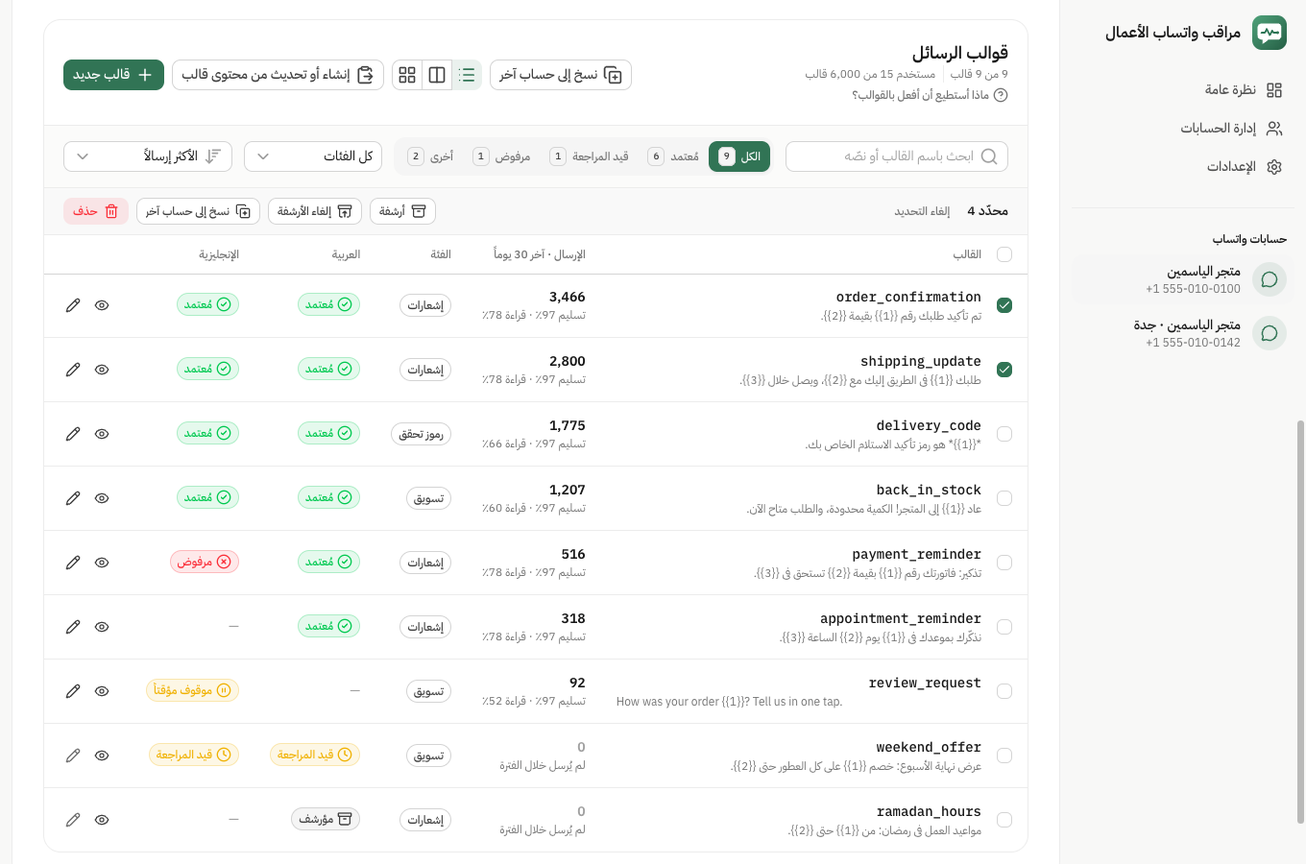
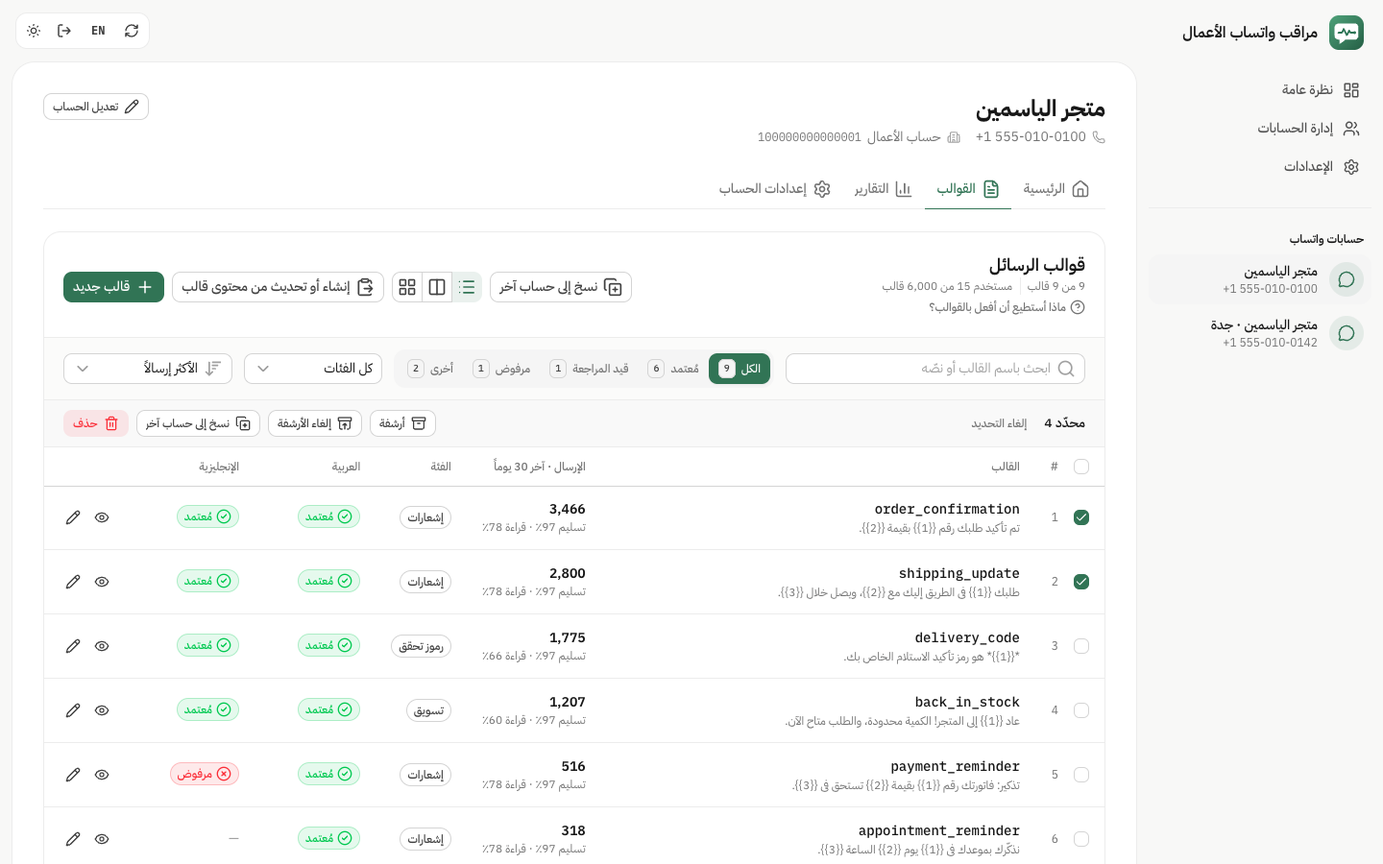
feat(docs): simplify the site and README around the new tabs
Six grouped features instead of fifteen, five screenshots per language
(with Arabic images on the Arabic site), new hero text, guides updated
for the templates tab and paging, and unused screenshots removed.

diff --git a/site/app/utils/content.ts b/site/app/utils/content.ts
@@ -8,31 +8,22 @@ const en = {
   language: 'العربية',
   hero: {
     badge: 'Free and open source',
-    title: 'Your WhatsApp templates on one screen',
-    text: 'See how every message template performs and what it costs, across all your WhatsApp Business accounts. It runs on your computer or your server, and your tokens never leave it.',
+    title: 'Your WhatsApp Business accounts on one screen',
+    text: 'Templates, costs, numbers and settings for all your WhatsApp Business accounts, explained in plain words. It runs on your computer or your server, and your tokens never leave it.',
     install: 'Install',
     docs: 'Read the docs',
     notes: ['One command with Docker', 'Arabic and English', 'MIT license'],
     image: 'The overview of two accounts of a fictional store: this month\'s cost, messages sent, templates that need attention and a daily cost chart.',
   },
   features: {
-    title: 'Everything about your templates, in one place',
-    text: 'Built on Meta\'s WhatsApp Business Management API. No spreadsheets, and no switching between accounts in WhatsApp Manager.',
+    title: 'Everything about your accounts, in one place',
+    text: 'Built on Meta\'s WhatsApp Business APIs. No spreadsheets, and no switching between accounts in WhatsApp Manager.',
     items: [
-      { icon: 'i-lucide-layout-dashboard', title: 'All accounts together', text: 'This month\'s cost, messages sent and the templates that need attention, for every account.' },
-      { icon: 'i-lucide-chart-column', title: 'Numbers for each template', text: 'Sends, deliveries, reads and cost for the last 30 days.' },
-      { icon: 'i-lucide-wallet', title: 'What you spend', text: 'This month\'s cost per day and per message type.' },
-      { icon: 'i-lucide-file-text', title: 'Create and edit', text: 'Fill in the fields with a live WhatsApp preview, or paste a whole template as text.' },
-      { icon: 'i-lucide-bell-ring', title: 'Status alerts', text: 'A notification when a template is approved, rejected or paused, with Meta\'s reason in plain words.' },
-      { icon: 'i-lucide-smartphone', title: 'Number health', text: 'Whether each number can send now and why not, with its quality rating and daily limit.' },
-      { icon: 'i-lucide-archive', title: 'Tidy up templates', text: 'Delete, archive, unpause and copy templates to another account, several at once, and see how many of your 250 or 6,000 are used.' },
-      { icon: 'i-lucide-chart-column', title: 'Reports and costs', text: 'Cost by country, number and paid or free, every message sent and received, the 1,000 free service messages left, template block rates and calls.' },
-      { icon: 'i-lucide-settings', title: 'Account settings', text: 'Verification, payment method, people with access, the activity log, and each number\'s profile, name, badge, username, QR codes, chat start and blocked list.' },
-      { icon: 'i-lucide-users', title: 'Several accounts', text: 'Add, edit and remove accounts, and move them all to another computer in one encrypted file.' },
-      { icon: 'i-lucide-search', title: 'Find any template', text: 'Search by name or text, filter by status and category, and sort by the most sent.' },
-      { icon: 'i-lucide-layout-grid', title: 'Three views', text: 'A table, a list with the preview beside it, or cards with a preview of each message.' },
-      { icon: 'i-lucide-files', title: 'Many templates at once', text: 'Paste several templates together: new ones are created, changed ones updated, the rest skipped.' },
-      { icon: 'i-lucide-key-round', title: 'Accounts from a token', text: 'Paste a Meta access token and it lists the WhatsApp Business accounts the token can reach.' },
+      { icon: 'i-lucide-layout-dashboard', title: 'Every account at a glance', text: 'This month\'s cost and messages, what needs your attention now, and the most-sent templates.' },
+      { icon: 'i-lucide-file-text', title: 'Templates', text: 'Status and 30-day numbers for each one. Create and edit with a live preview, paste them as text, and delete, archive, unpause or copy several at once.' },
+      { icon: 'i-lucide-chart-column', title: 'Reports and costs', text: 'What Meta charged by category, country and number, every message sent and received, and the 1,000 free replies left this month.' },
+      { icon: 'i-lucide-settings', title: 'Account and numbers', text: 'Whether each number can send and why not, verification, payment, people with access, and each number\'s profile, name, badge, QR codes and blocked list.' },
+      { icon: 'i-lucide-users', title: 'Several accounts', text: 'Found from one token, and moved to another computer in one encrypted file.' },
       { icon: 'i-lucide-languages', title: 'Arabic and English', text: 'Right to left or left to right, light or dark, and templates in any language.' },
     ],
   },
@@ -40,16 +31,11 @@ const en = {
     title: 'A look inside',
     text: 'Every screenshot shows a fictional store.',
     tabs: [
-      { label: 'An account', file: 'dashboard.png', alt: 'An account: cost, messages, number, daily cost, cost by type, number health and the templates table.' },
-      { label: 'A template', file: 'template-preview.png', alt: 'A template\'s preview, details and 30-day numbers.' },
-      { label: 'Editing', file: 'template-edit.png', alt: 'Editing a template with fields, sample values and a live preview.' },
-      { label: 'Paste as text', file: 'create-from-text.png', alt: 'Two pasted templates: one update and one new template.' },
-      { label: 'List and preview', file: 'views-split.png', alt: 'The templates as a list, with the selected one\'s preview and numbers beside it.' },
-      { label: 'Cards', file: 'views-cards.png', alt: 'The templates as cards, with a preview of each message.' },
-      { label: 'Accounts', file: 'accounts.png', alt: 'The accounts page with import, export and add buttons.' },
-      { label: 'Settings', file: 'settings.png', alt: 'The settings: app name and address, updates, password and backup.' },
+      { label: 'An account', file: 'dashboard.png', alt: 'An account\'s home: cost, messages, balance, daily cost, cost by type, what needs attention and the most-sent templates.' },
+      { label: 'Templates', file: 'templates-actions.png', alt: 'The templates tab with two selected and the archive, unarchive, copy and delete buttons.' },
+      { label: 'Reports', file: 'reports.png', alt: 'Reports: what was charged, free messages, free replies left, cost over time, and cost by category and country.' },
+      { label: 'Account settings', file: 'account-settings.png', alt: 'Account settings: sending health with reasons, account details, numbers, people with access and the activity log.' },
       { label: 'Dark mode', file: 'dashboard-dark.png', alt: 'The overview in dark mode.' },
-      { label: 'Arabic', file: 'arabic.png', alt: 'The overview in Arabic, right to left.' },
     ],
   },
   install: {
@@ -65,7 +51,7 @@ const en = {
     title: 'Yours, and only yours',
     items: [
       { icon: 'i-lucide-server', title: 'Runs where you choose', text: 'On your computer or your own server, behind your own sign-in.' },
-      { icon: 'i-lucide-lock', title: 'Tokens stay on the server', text: 'No page and no response ever contains an access token.' },
+      { icon: 'i-lucide-lock', title: 'Tokens stay on the server', text: 'No page and no response ever contains an access token, and exporting them asks for your password.' },
       { icon: 'i-lucide-eye-off', title: 'No tracking', text: 'No analytics. Besides Meta, it only asks GitHub once a day whether a new version is out.' },
     ],
   },
@@ -77,7 +63,7 @@ const en = {
       { question: 'Is it free?', answer: 'Yes. It is open source under the MIT license, with no paid plan. You keep paying Meta for the messages you send, as usual.' },
       { question: 'Is my access token safe?', answer: 'The app runs on your computer or your own server. The token stays in its database and is never sent to the browser or to anyone but Meta. There are no analytics.' },
       { question: 'What do I need to connect an account?', answer: 'A WhatsApp Business account on the Cloud API, and a Meta system user token with the whatsapp_business_management permission.' },
-      { question: 'How is it different from WhatsApp Manager?', answer: 'Meta\'s WhatsApp Manager shows one account at a time. This puts all your accounts on one screen, with 30-day numbers for every template, the month\'s cost per day and per message type, and an alert when a template\'s status changes.' },
+      { question: 'How is it different from WhatsApp Manager?', answer: 'Meta\'s WhatsApp Manager shows one account at a time. This puts all your accounts on one screen, with 30-day numbers for every template, reports on what you pay and why, what needs your attention now, and an alert when a template\'s status changes.' },
       { question: 'Does it send messages to my customers?', answer: 'No. It reads your templates, numbers and costs, and lets you create and edit templates. Sending messages stays in your own systems.' },
       { question: 'How do I install and update it?', answer: 'Run one command with Docker. New versions install themselves every 6 hours and keep your settings and data; to update right away, press "Update now" in the app.' },
     ],
@@ -98,31 +84,22 @@ const ar: typeof en = {
   language: 'English',
   hero: {
     badge: 'مجاني ومفتوح المصدر',
-    title: 'قوالب واتساب الخاصة بك في شاشة واحدة',
-    text: 'اعرف أداء كل قالب رسائل وتكلفته في جميع حسابات واتساب الأعمال. يعمل على جهازك أو على خادمك، ولا يغادره رمز الوصول أبداً.',
+    title: 'حسابات واتساب الأعمال في شاشة واحدة',
+    text: 'القوالب والتكاليف والأرقام والإعدادات لكل حسابات واتساب الأعمال، مشروحة بكلمات بسيطة. يعمل على جهازك أو على خادمك، ولا يغادره رمز الوصول أبداً.',
     install: 'التثبيت',
     docs: 'اقرأ دليل الاستخدام',
     notes: ['أمر واحد مع Docker', 'عربي وإنجليزي', 'رخصة MIT'],
     image: 'نظرة عامة على حسابين لمتجر خيالي: تكلفة هذا الشهر والرسائل المرسلة والقوالب التي تحتاج إلى متابعة ورسم للتكلفة اليومية.',
   },
   features: {
-    title: 'كل ما يخص قوالبك في مكان واحد',
-    text: 'مبني على WhatsApp Business Management API من Meta. لا جداول، ولا تنقّل بين الحسابات في WhatsApp Manager.',
+    title: 'كل ما يخص حساباتك في مكان واحد',
+    text: 'مبني على واجهات واتساب للأعمال من Meta. لا جداول، ولا تنقّل بين الحسابات في WhatsApp Manager.',
     items: [
-      { icon: 'i-lucide-layout-dashboard', title: 'كل الحسابات معاً', text: 'تكلفة هذا الشهر والرسائل المرسلة والقوالب التي تحتاج إلى متابعة، لكل حساب.' },
-      { icon: 'i-lucide-chart-column', title: 'أرقام كل قالب', text: 'الإرسال والتسليم والقراءة والتكلفة خلال آخر 30 يوماً.' },
-      { icon: 'i-lucide-wallet', title: 'ما تنفقه', text: 'تكلفة هذا الشهر لكل يوم ولكل نوع رسالة.' },
-      { icon: 'i-lucide-file-text', title: 'إنشاء وتعديل', text: 'املأ الحقول مع معاينة حيّة لرسالة واتساب، أو الصق القالب كاملاً كنص.' },
-      { icon: 'i-lucide-bell-ring', title: 'تنبيهات الحالة', text: 'إشعار عند اعتماد قالب أو رفضه أو إيقافه مؤقتاً، مع سبب Meta بكلمات واضحة.' },
-      { icon: 'i-lucide-smartphone', title: 'صحة الأرقام', text: 'هل يستطيع كل رقم الإرسال الآن ولماذا لا، مع تقييم الجودة والحد اليومي.' },
-      { icon: 'i-lucide-archive', title: 'ترتيب القوالب', text: 'احذف القوالب وأرشفها وألغِ إيقافها وانسخها إلى حساب آخر، عدة قوالب معاً، واعرف كم استخدمت من 250 أو 6,000.' },
-      { icon: 'i-lucide-chart-column', title: 'التقارير والتكاليف', text: 'التكلفة حسب الدولة والرقم والمدفوع والمجاني، وكل الرسائل المرسلة والواردة، والمتبقي من 1,000 رسالة خدمة مجانية، ونسبة حظر القوالب والمكالمات.' },
-      { icon: 'i-lucide-settings', title: 'إعدادات الحساب', text: 'التوثيق ووسيلة الدفع ومن يصل إلى الحساب وسجل النشاط، ولكل رقم ملفه واسمه وشارته واسم المستخدم ورموز QR وبداية المحادثة والمحظورون.' },
-      { icon: 'i-lucide-users', title: 'عدة حسابات', text: 'أضف الحسابات وعدّلها واحذفها، وانقلها كلها إلى جهاز آخر في ملف واحد مشفّر.' },
-      { icon: 'i-lucide-search', title: 'ابحث عن أي قالب', text: 'ابحث بالاسم أو النص، وصفِّ حسب الحالة والفئة، ورتّب حسب الأكثر إرسالاً.' },
-      { icon: 'i-lucide-layout-grid', title: 'ثلاث طرق للعرض', text: 'جدول، أو قائمة بجانبها المعاينة، أو بطاقات فيها معاينة لكل رسالة.' },
-      { icon: 'i-lucide-files', title: 'عدة قوالب دفعة واحدة', text: 'الصق عدة قوالب معاً: يُنشأ الجديد ويُحدَّث المعدَّل ويُترك الباقي.' },
-      { icon: 'i-lucide-key-round', title: 'الحسابات من رمز الوصول', text: 'الصق رمز الوصول من Meta فتظهر حسابات واتساب الأعمال التي يصل إليها.' },
+      { icon: 'i-lucide-layout-dashboard', title: 'كل حساب بنظرة واحدة', text: 'تكلفة هذا الشهر والرسائل، وما يحتاج انتباهك الآن، والقوالب الأكثر إرسالاً.' },
+      { icon: 'i-lucide-file-text', title: 'القوالب', text: 'الحالة وأرقام آخر 30 يوماً لكل قالب. أنشئ وعدّل مع معاينة حيّة، أو الصقها كنص، واحذف وأرشف وألغِ الإيقاف وانسخ عدة قوالب معاً.' },
+      { icon: 'i-lucide-chart-column', title: 'التقارير والتكاليف', text: 'ما حسبته Meta حسب الفئة والدولة والرقم، وكل الرسائل المرسلة والواردة، والمتبقي من 1,000 رد مجاني هذا الشهر.' },
+      { icon: 'i-lucide-settings', title: 'الحساب والأرقام', text: 'هل يستطيع كل رقم الإرسال ولماذا لا، والتوثيق والدفع ومن يصل إلى الحساب، ولكل رقم ملفه واسمه وشارته ورموز QR والمحظورون.' },
+      { icon: 'i-lucide-users', title: 'عدة حسابات', text: 'تظهر من رمز وصول واحد، وتنتقل إلى جهاز آخر في ملف واحد مشفّر.' },
       { icon: 'i-lucide-languages', title: 'عربي وإنجليزي', text: 'من اليمين إلى اليسار أو العكس، فاتح أو داكن، وقوالب بأي لغة.' },
     ],
   },
@@ -130,16 +107,11 @@ const ar: typeof en = {
     title: 'نظرة من الداخل',
     text: 'كل الصور لمتجر خيالي.',
     tabs: [
-      { label: 'الحساب', file: 'dashboard.png', alt: 'حساب: التكلفة والرسائل والرقم والتكلفة اليومية والتكلفة حسب النوع وصحة الأرقام وجدول القوالب.' },
-      { label: 'القالب', file: 'template-preview.png', alt: 'معاينة قالب وتفاصيله وأرقامه خلال 30 يوماً.' },
-      { label: 'التعديل', file: 'template-edit.png', alt: 'تعديل قالب بالحقول والقيم التجريبية مع معاينة حيّة.' },
-      { label: 'اللصق كنص', file: 'create-from-text.png', alt: 'قالبان ملصوقان: تحديث لقالب وقالب جديد.' },
-      { label: 'القائمة والمعاينة', file: 'views-split.png', alt: 'القوالب في قائمة، وبجانبها معاينة القالب المحدد وأرقامه.' },
-      { label: 'البطاقات', file: 'views-cards.png', alt: 'القوالب في بطاقات، في كل منها معاينة للرسالة.' },
-      { label: 'الحسابات', file: 'accounts.png', alt: 'صفحة الحسابات مع أزرار الاستيراد والتصدير والإضافة.' },
-      { label: 'الإعدادات', file: 'settings.png', alt: 'الإعدادات: اسم التطبيق وعنوانه والتحديثات وكلمة المرور والنسخ الاحتياطي.' },
+      { label: 'الحساب', file: 'dashboard-ar.png', alt: 'رئيسية الحساب: التكلفة والرسائل والرصيد والتكلفة اليومية وحسب النوع، وما يحتاج انتباهك، والقوالب الأكثر إرسالاً.' },
+      { label: 'القوالب', file: 'templates-actions-ar.png', alt: 'تبويب القوالب مع قالبين محدّدين وأزرار الأرشفة وإلغائها والنسخ والحذف.' },
+      { label: 'التقارير', file: 'reports-ar.png', alt: 'التقارير: المبلغ المحسوب والرسائل المجانية والردود المجانية المتبقية والتكلفة عبر الوقت وحسب الفئة والدولة.' },
+      { label: 'إعدادات الحساب', file: 'account-settings-ar.png', alt: 'إعدادات الحساب: قدرة الإرسال وأسبابها وبيانات الحساب والأرقام ومن يصل إليه وسجل النشاط.' },
       { label: 'الوضع الداكن', file: 'dashboard-dark.png', alt: 'النظرة العامة في الوضع الداكن.' },
-      { label: 'العربية', file: 'arabic.png', alt: 'النظرة العامة بالعربية، من اليمين إلى اليسار.' },
     ],
   },
   install: {
@@ -155,7 +127,7 @@ const ar: typeof en = {
     title: 'بياناتك لك وحدك',
     items: [
       { icon: 'i-lucide-server', title: 'يعمل حيث تختار', text: 'على جهازك أو خادمك الخاص، خلف تسجيل الدخول الخاص بك.' },
-      { icon: 'i-lucide-lock', title: 'رمز الوصول يبقى على الخادم', text: 'لا تحتوي أي صفحة أو استجابة على رمز الوصول.' },
+      { icon: 'i-lucide-lock', title: 'رمز الوصول يبقى على الخادم', text: 'لا تحتوي أي صفحة أو استجابة على رمز الوصول، وتصديره يطلب كلمة مرورك.' },
       { icon: 'i-lucide-eye-off', title: 'بلا تتبّع', text: 'لا تحليلات. وعدا Meta، يسأل GitHub مرة في اليوم فقط عن وجود إصدار جديد.' },
     ],
   },
@@ -167,7 +139,7 @@ const ar: typeof en = {
       { question: 'هل هو مجاني؟', answer: 'نعم. هو مفتوح المصدر برخصة MIT ولا توجد خطة مدفوعة. وتدفع لـ Meta ثمن الرسائل التي ترسلها كالمعتاد.' },
       { question: 'هل رمز الوصول آمن؟', answer: 'يعمل التطبيق على جهازك أو خادمك الخاص. يبقى رمز الوصول في قاعدة بياناته، ولا يُرسل إلى المتصفح ولا إلى أي جهة غير Meta. ولا توجد أي تحليلات.' },
       { question: 'ماذا أحتاج لربط حساب؟', answer: 'حساب واتساب أعمال على Cloud API، ورمز وصول لمستخدم نظام في Meta يملك صلاحية whatsapp_business_management.' },
-      { question: 'ما الفرق بينه وبين WhatsApp Manager؟', answer: 'يعرض WhatsApp Manager من Meta حساباً واحداً في كل مرة. أما هذه اللوحة فتجمع كل حساباتك في شاشة واحدة، مع أرقام آخر 30 يوماً لكل قالب، وتكلفة الشهر لكل يوم ولكل نوع رسالة، وتنبيه عند تغيّر حالة أي قالب.' },
+      { question: 'ما الفرق بينه وبين WhatsApp Manager؟', answer: 'يعرض WhatsApp Manager من Meta حساباً واحداً في كل مرة. أما هذه اللوحة فتجمع كل حساباتك في شاشة واحدة، مع أرقام آخر 30 يوماً لكل قالب، وتقارير عمّا تدفعه ولماذا، وما يحتاج انتباهك الآن، وتنبيه عند تغيّر حالة أي قالب.' },
       { question: 'هل يرسل رسائل إلى عملائي؟', answer: 'لا. يقرأ القوالب والأرقام والتكاليف، ويتيح إنشاء القوالب وتعديلها. أما إرسال الرسائل فيبقى في أنظمتك.' },
       { question: 'كيف أثبّته وأحدّثه؟', answer: 'شغّل أمراً واحداً مع Docker. تُثبَّت الإصدارات الجديدة تلقائياً كل 6 ساعات مع الحفاظ على إعداداتك وبياناتك، ولتحديث فوري اضغط «حدّث الآن» في التطبيق.' },
     ],

diff --git a/site/app/utils/docs.ts b/site/app/utils/docs.ts
@@ -188,7 +188,7 @@ const templatesEn: typeof en = {
   description: 'Delete, archive, unarchive, unpause and copy WhatsApp message templates between accounts, and see how many of your 250 or 6,000 templates are used.',
   keywords: 'delete WhatsApp template, archive WhatsApp template, unpause WhatsApp template, paused template, migrate WhatsApp templates, copy templates between WABA, WhatsApp template limit, message_templates API',
   heading: 'Templates',
-  intro: 'Open an account to see its templates. Besides creating and editing them, you can now delete, archive, unpause and copy them, alone or several at once. Every change asks you to confirm first and says what Meta does with it.',
+  intro: 'Open an account and choose "Templates". The table shows 25 templates a page, numbered, with a search, filters and sorting. Besides creating and editing them, you can delete, archive, unpause and copy them, alone or several at once. Every change asks you to confirm first and says what Meta does with it.',
   onThisPage: 'On this page',
   back: 'Back to the home page',
   limitsTitle: 'Meta\'s limits at a glance',
@@ -210,7 +210,7 @@ const templatesEn: typeof en = {
     {
       id: 'select',
       title: 'Acting on several templates',
-      text: 'Tick templates in the table to archive, unarchive, copy or delete them together. Ticking a name includes every language of it.',
+      text: 'Tick templates in the table to archive, unarchive, copy or delete them together. Ticking a name includes every language of it, and the box in the header ticks the page you see.',
       points: [
         'Meta takes up to 100 templates in one delete or archive, and up to 500 in one copy.',
         'When Meta refuses some of them, the page lists which ones and why.',
@@ -266,7 +266,7 @@ const templatesAr: typeof ar = {
   description: 'احذف قوالب رسائل واتساب وأرشفها وألغِ أرشفتها وألغِ إيقافها وانسخها بين الحسابات، واعرف كم استخدمت من 250 أو 6,000 قالب.',
   keywords: 'حذف قالب واتساب, أرشفة قالب واتساب, قالب موقوف واتساب, إلغاء إيقاف القالب, نسخ القوالب بين الحسابات, حد قوالب واتساب, واجهة قوالب واتساب',
   heading: 'القوالب',
-  intro: 'افتح حساباً لترى قوالبه. إلى جانب إنشائها وتعديلها، تستطيع الآن حذفها وأرشفتها وإلغاء إيقافها ونسخها، واحداً واحداً أو عدة قوالب معاً. كل تغيير يطلب تأكيدك أولاً ويذكر ما يفعله Meta به.',
+  intro: 'افتح حساباً واختر «القوالب». يعرض الجدول 25 قالباً في كل صفحة مرقّمة، مع البحث والتصفية والترتيب. وإلى جانب إنشائها وتعديلها، تستطيع حذفها وأرشفتها وإلغاء إيقافها ونسخها، واحداً واحداً أو عدة قوالب معاً. كل تغيير يطلب تأكيدك أولاً ويذكر ما يفعله Meta به.',
   onThisPage: 'في هذه الصفحة',
   back: 'العودة إلى الصفحة الرئيسية',
   limitsTitle: 'حدود Meta باختصار',
@@ -288,7 +288,7 @@ const templatesAr: typeof ar = {
     {
       id: 'select',
       title: 'العمل على عدة قوالب',
-      text: 'حدّد القوالب في الجدول لتؤرشفها أو تلغي أرشفتها أو تنسخها أو تحذفها معاً. تحديد الاسم يشمل كل لغاته.',
+      text: 'حدّد القوالب في الجدول لتؤرشفها أو تلغي أرشفتها أو تنسخها أو تحذفها معاً. تحديد الاسم يشمل كل لغاته، والمربع في رأس الجدول يحدّد الصفحة الظاهرة فقط.',
       points: [
         'يقبل Meta حتى 100 قالب في الحذف أو الأرشفة الواحدة، وحتى 500 في النسخ الواحد.',
         'حين يرفض Meta بعضها، تعرض الصفحة أيها وسبب الرفض.',

diff --git a/site/app/components/LandingPage.vue b/site/app/components/LandingPage.vue
@@ -5,7 +5,11 @@ const { text, lang } = useLang()
 const { version, repo } = useRuntimeConfig().public
 
 const INSTALL = installCommand(repo)
-const shot = ref('dashboard.png')
+// Each language has its own screenshots, so the chosen tab starts over on the first one when it changes.
+const shot = ref(text.value.screenshots.tabs[0]!.file)
+watch(lang, () => {
+  shot.value = text.value.screenshots.tabs[0]!.file
+})
 const tabs = computed(() => text.value.screenshots.tabs.map(tab => ({ label: tab.label, value: tab.file })))
 const currentShot = computed(() => text.value.screenshots.tabs.find(tab => tab.file === shot.value) ?? text.value.screenshots.tabs[0]!)
 const installOn = ref<'computer' | 'server'>('computer')
@@ -69,7 +73,7 @@ useSiteSeo()
               {{ text.features.text }}
             </p>
           </div>
-          <ul class="mt-12 grid gap-4 sm:grid-cols-2 lg:grid-cols-4">
+          <ul class="mt-12 grid gap-4 sm:grid-cols-2 lg:grid-cols-3">
             <li v-for="feature in text.features.items" :key="feature.icon" class="rounded-xl border border-default bg-muted/50 p-5">
               <div class="grid size-10 place-items-center rounded-lg border border-default bg-default text-primary">
                 <UIcon :name="feature.icon" class="size-5" />

diff --git a/site/app/composables/useSiteSeo.ts b/site/app/composables/useSiteSeo.ts
@@ -1,4 +1,4 @@
-const SCREENSHOTS = ['overview.png', 'dashboard.png', 'template-preview.png', 'views-split.png']
+const SCREENSHOTS = ['overview.png', 'dashboard.png', 'templates-actions.png', 'reports.png']
 
 export function useSiteSeo() {
   const { text, lang, isRtl } = useLang()

diff --git a/README.md b/README.md
@@ -4,14 +4,14 @@
 
 # WhatsApp Business Monitor
 
-**See your WhatsApp templates, how they perform and what they cost, on one screen.**<br>
+**Your WhatsApp Business accounts on one screen: templates, costs, numbers and settings.**<br>
 Free and open source. It runs on your computer or your server, and your tokens never leave it.
 
 [![CI](https://github.com/Haythamasalama/whatsapp-business-monitor/actions/workflows/ci.yml/badge.svg)](https://github.com/Haythamasalama/whatsapp-business-monitor/actions/workflows/ci.yml)
 [![License: MIT](https://img.shields.io/badge/license-MIT-0F0F12.svg)](LICENSE)
 [![Docker image](https://img.shields.io/badge/docker-ghcr.io-317455?logo=docker&logoColor=white)](https://github.com/Haythamasalama/whatsapp-business-monitor/pkgs/container/whatsapp-business-monitor)
 
-[🌐 Website](https://wbm.haythamasalama.me/) · [العربية](https://wbm.haythamasalama.me/ar/) · [🚀 Install](#-install) · [📸 Screenshots](#-screenshots) · [🤝 Contribute](CONTRIBUTING.md)
+[🌐 Website](https://wbm.haythamasalama.me/) · [العربية](https://wbm.haythamasalama.me/ar/) · [🚀 Install](#-install) · [📖 Docs](https://wbm.haythamasalama.me/docs/accounts-and-numbers/) · [🤝 Contribute](CONTRIBUTING.md)
 
 <img src="docs/screenshots/overview.png" width="860" alt="The overview of two accounts of a fictional store: this month's cost, messages sent, templates that need attention, a daily cost chart and the cost per account.">
 
@@ -19,37 +19,20 @@ Free and open source. It runs on your computer or your server, and your tokens n
 
 ## ✨ What it does
 
-- 📊 **Every account on one screen:** this month's cost, messages and templates.
-- 📝 **Every template's numbers:** status, sends, deliveries and reads for the last 30 days.
-- ✏ **Create and edit templates** with a live WhatsApp preview, or paste a full template as text.
-- 🔍 **Find templates fast:** search, filter and sort, as a table, a list with a preview, or cards.
-- 🔔 **Alerts** when a template is approved, rejected or paused, with Meta's reason in plain words.
-- 📱 **Number health:** whether each number can send now and why not, its quality rating and daily limit.
-- ⚙ **Account settings:** business verification, payment method, people with access and the activity log; for each number its profile and photo, display name, green badge, username, ice breakers and commands, QR codes and short links, and blocked people. [Guide](https://wbm.haythamasalama.me/docs/accounts-and-numbers/)
-- 🗂 **Template housekeeping:** delete a template in one language or all, archive and unarchive, unpause a paused one, copy templates to another account of the same business, act on several at once, and see how many of your 250 or 6,000 templates are used. [Guide](https://wbm.haythamasalama.me/docs/templates/)
-- 📊 **Reports and costs:** cost by country, number, category and paid or free, every message sent and received (not only templates), how many of each number's 1,000 free service messages are left this month, volume tier progress, which of two templates gets blocked less, template groups and calls, from 24 hours to 12 months. [Guide](https://wbm.haythamasalama.me/docs/reports-and-costs/)
-- 👥 **Several accounts:** find them from a token, and move them all to another computer in one encrypted file.
-- 🌍 **Arabic or English,** light or dark.
+- 🏠 **Every account at a glance:** this month's cost and messages, what needs your attention now (a rejected or paused template, a number with low quality) and the most-sent templates.
+- 📝 **Templates:** status and 30-day sends, deliveries and reads for each one. Create and edit with a live WhatsApp preview or paste them as text, and delete, archive, unpause or copy several at once. [Guide](https://wbm.haythamasalama.me/docs/templates/)
+- 📊 **Reports and costs:** what Meta charged by category, country and number, every message sent and received, the 1,000 free service messages left this month, and which of two templates customers block less. [Guide](https://wbm.haythamasalama.me/docs/reports-and-costs/)
+- ⚙ **Account and numbers:** whether each number can send and why not, verification, payment, people with access, the activity log, and each number's profile, name, badge, username, QR codes and blocked list. [Guide](https://wbm.haythamasalama.me/docs/accounts-and-numbers/)
+- 👥 **Several accounts:** found from one token, and moved to another computer in one encrypted file.
+- 🔐 **Private:** runs where you choose, behind your own sign-in, in Arabic or English, light or dark.
 
-## 📸 Screenshots
-
-| An account | A template |
+| An account | Reports |
 |:--:|:--:|
-| <img src="docs/screenshots/dashboard.png" alt="An account: cost, messages, number, daily cost, cost by type, number health and the templates table."> | <img src="docs/screenshots/template-preview.png" alt="A template's preview, details and 30-day numbers."> |
-| **List and preview** | **Paste templates as text** |
-| <img src="docs/screenshots/views-split.png" alt="The templates as a list, with the selected one's preview and numbers beside it."> | <img src="docs/screenshots/create-from-text.png" alt="Two pasted templates: one update and one new template."> |
-| **Template housekeeping** | **A paused template** |
-| <img src="docs/screenshots/templates-actions.png" alt="Templates with two selected and the archive, unarchive, copy and delete buttons, and the count used out of 6,000."> | <img src="docs/screenshots/template-paused.png" alt="A paused template with the pause rules, an Unpause button and the More actions menu."> |
-| **Account settings** | **A number's QR codes** |
-| <img src="docs/screenshots/account-settings.png" alt="Account settings: sending health with reasons, account details, numbers, people with access and the activity log."> | <img src="docs/screenshots/number-qr.png" alt="A number's QR codes with download, edit and delete."> |
-| **Reports and costs** | **All messages** |
-| <img src="docs/screenshots/reports-costs.png" alt="Reports: cost charged, paid and free messages, free service messages left, and cost over time."> | <img src="docs/screenshots/reports-messages.png" alt="All messages: templates, replies and received, stacked by day."> |
-| **Accounts** | **Settings** |
-| <img src="docs/screenshots/accounts.png" alt="The accounts page with import, export and add buttons."> | <img src="docs/screenshots/settings.png" alt="The settings: app name and address, updates, password and backup."> |
-| **Dark mode** | **Arabic, right to left** |
-| <img src="docs/screenshots/dashboard-dark.png" alt="The overview in dark mode."> | <img src="docs/screenshots/arabic.png" alt="The overview in Arabic."> |
+| <img src="docs/screenshots/dashboard.png" alt="An account's home: cost, messages, balance, daily cost, cost by type, what needs attention and the most-sent templates."> | <img src="docs/screenshots/reports-costs.png" alt="Reports: what was charged, free messages, free replies left, cost over time, and cost by category and country."> |
+| **Templates** | **Account settings** |
+| <img src="docs/screenshots/templates-actions.png" alt="The templates tab with two selected and the archive, unarchive, copy and delete buttons."> | <img src="docs/screenshots/account-settings.png" alt="Account settings: sending health with reasons, account details, numbers, people with access and the activity log."> |
 
-The screenshots show a fictional store. More on the [website](https://wbm.haythamasalama.me/#screenshots).
+Every screenshot shows a fictional store. More on the [website](https://wbm.haythamasalama.me/#screenshots).
 
 ## 🚀 Install
 
